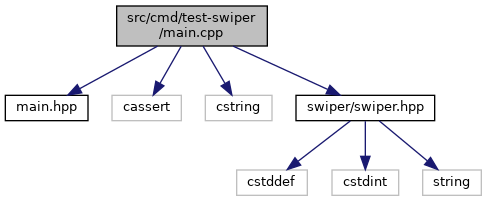
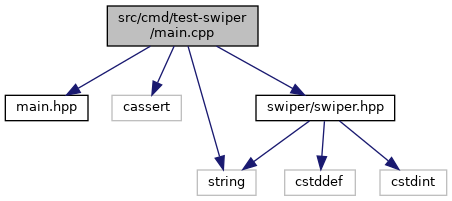
Travis build: 112
Commit: 98a8eb316b101a0f6e53b4b25fd8fc232c902e92

diff --git a/main_8cpp.html b/main_8cpp.html
@@ -73,21 +73,20 @@ $(function() {
 <div class="contents">
 <div class="textblock"><code>#include &quot;<a class="el" href="main_8hpp_source.html">main.hpp</a>&quot;</code><br />
 <code>#include &lt;cassert&gt;</code><br />
-<code>#include &lt;cstring&gt;</code><br />
+<code>#include &lt;string&gt;</code><br />
 <code>#include &quot;<a class="el" href="swiper_8hpp_source.html">swiper/swiper.hpp</a>&quot;</code><br />
 </div><div class="textblock"><div class="dynheader">
 Include dependency graph for main.cpp:</div>
 <div class="dyncontent">
 <div class="center"><img src="main_8cpp__incl.png" border="0" usemap="#src_2cmd_2test-swiper_2main_8cpp" alt=""/></div>
 <map name="src_2cmd_2test-swiper_2main_8cpp" id="src_2cmd_2test-swiper_2main_8cpp">
-<area shape="rect" title=" " alt="" coords="117,5,267,47"/>
+<area shape="rect" title=" " alt="" coords="107,5,258,47"/>
 <area shape="rect" href="main_8hpp.html" title=" " alt="" coords="5,95,88,121"/>
 <area shape="rect" title=" " alt="" coords="112,95,181,121"/>
-<area shape="rect" title=" " alt="" coords="205,95,272,121"/>
-<area shape="rect" href="swiper_8hpp.html" title=" " alt="" coords="296,95,435,121"/>
-<area shape="rect" title=" " alt="" coords="237,169,307,196"/>
-<area shape="rect" title=" " alt="" coords="332,169,399,196"/>
-<area shape="rect" title=" " alt="" coords="423,169,481,196"/>
+<area shape="rect" title=" " alt="" coords="197,169,256,196"/>
+<area shape="rect" href="swiper_8hpp.html" title=" " alt="" coords="256,95,395,121"/>
+<area shape="rect" title=" " alt="" coords="285,169,355,196"/>
+<area shape="rect" title=" " alt="" coords="380,169,447,196"/>
 </map>
 </div>
 </div><table class="memberdecls">
@@ -111,7 +110,6 @@ Functions</h2></td></tr>
         </tr>
       </table>
 </div><div class="memdoc">
-<dl class="section copyright"><dt>Copyright</dt><dd>2021 YelloSoft </dd></dl>
 
 </div>
 </div>

diff --git a/README.md b/README.md
@@ -1,1 +1,1 @@
-Sat 13 Mar 2021 06:53:08 AM UTC
+Sat 13 Mar 2021 03:39:54 PM UTC
